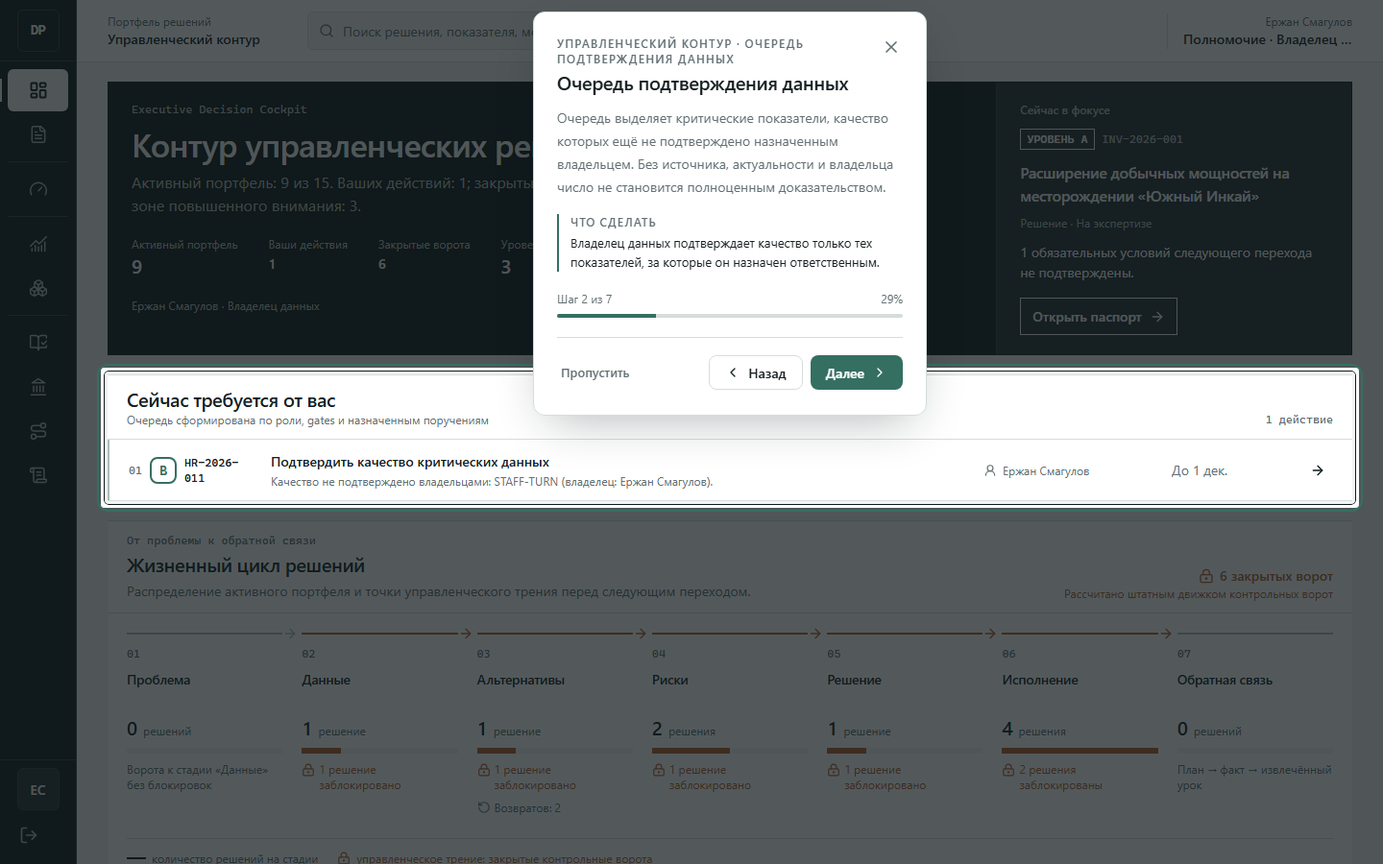
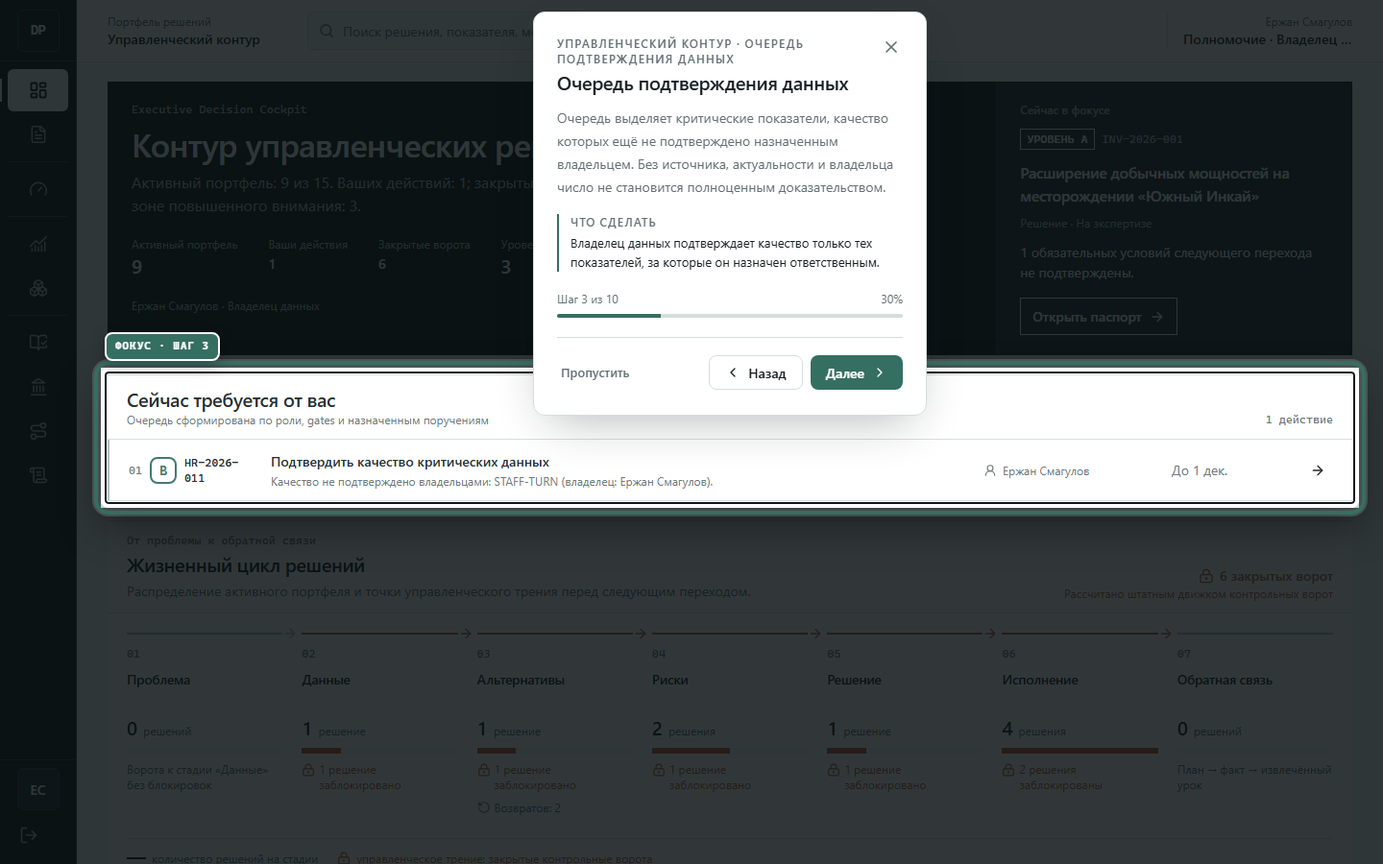
onboarding: verify stronger focus and role guidance

diff --git a/tests/onboarding-content.test.ts b/tests/onboarding-content.test.ts
@@ -2,6 +2,7 @@ import { describe, expect, it } from "vitest";
 import { ROLES } from "@/lib/domain";
 import { TOUR_REGISTRY } from "@/lib/onboarding/registry";
 import { ONBOARDING_ROUTES } from "@/lib/onboarding/routes";
+import { ONBOARDING_ROLE_PROFILES } from "@/lib/onboarding/roles";
 
 const VALID_MODES = new Set(["PAGE", "ROLE", "THESIS"]);
 const VALID_PLACEMENTS = new Set(["top", "right", "bottom", "left", "center"]);
@@ -92,5 +93,24 @@ describe("onboarding content registry", () => {
     expect(dataOwner?.steps.find((step) => step.id.endsWith(":confirm-quality"))?.target).toBe(
       '[data-tour="decision-indicator-quality-control"]'
     );
+  });
+
+  it("keeps every working page substantial and every dashboard role-specific", () => {
+    const pageTours = TOUR_REGISTRY.filter((tour) => tour.mode === "PAGE");
+    expect(pageTours).toHaveLength(28);
+    expect(pageTours.every((tour) => tour.version >= 2)).toBe(true);
+    expect(pageTours.every((tour) => tour.steps.length >= 4)).toBe(true);
+
+    const dashboardTours = pageTours.filter((tour) => tour.routeRef.routeId === "dashboard");
+    expect(dashboardTours).toHaveLength(ROLES.length);
+    expect(dashboardTours.every((tour) => tour.steps.length >= 10)).toBe(true);
+
+    for (const role of ROLES) {
+      const profile = ONBOARDING_ROLE_PROFILES[role];
+      expect(profile.label.trim().length, role).toBeGreaterThan(4);
+      expect(profile.purpose.trim().length, role).toBeGreaterThan(40);
+      expect(profile.responsibilities, role).toHaveLength(3);
+      expect(profile.responsibilities.every((item) => item.trim().length > 25), role).toBe(true);
+    }
   });
 });

diff --git a/components/onboarding/tour-surface.tsx b/components/onboarding/tour-surface.tsx
@@ -336,6 +336,7 @@ export function TourSurface({
         style={{
           top: position?.top ?? "50%",
           left: position?.left ?? "50%",
+          maxHeight: "calc(100vh - 24px)",
           opacity: position ? 1 : 0,
           transform: position ? undefined : "translate(-50%, -50%)",
         }}

diff --git a/ONBOARDING-COVERAGE.md b/ONBOARDING-COVERAGE.md
@@ -39,10 +39,10 @@ Symbols in permission tables: `✓` allowed; `—` denied.
 | Domain roles | 7 |
 | Role × accessible-page obligations | 94 |
 | Structurally covered obligations | 94/94 PASS |
-| PAGE definitions / steps | 28 / 144 |
+| PAGE definitions / steps | 28 / 193 |
 | ROLE definitions / steps | 7 / 58 |
 | THESIS definitions / steps | 2 / 30 |
-| All registered tours / steps | 37 / 232 |
+| All registered tours / steps | 37 / 281 |
 | Permission actions in `PERMISSIONS` | 23 |
 | Server mutation entry points | 26 (25 currently exposed in UI, 1 server-only) |
 | Passport top-level tabs | 7 |
@@ -142,22 +142,22 @@ This is the post-implementation structural matrix. Counts are read from the curr
 | Route pattern | Exact PAGE tour id(s) | Actual steps | Registry role scope |
 |---|---|---:|---|
 | `/login` | `page-login` | 5 | Shared GUEST introduction |
-| `/dashboard` | `page-dashboard-initiator`<br>`page-dashboard-data-owner`<br>`page-dashboard-risk-officer`<br>`page-dashboard-analyst`<br>`page-dashboard-secretary`<br>`page-dashboard-board-member`<br>`page-dashboard-admin` | 7 each; 49 total | One role-specific definition for each of 7 roles |
-| `/decisions` | `page-decisions` | 5 | All authenticated roles |
+| `/dashboard` | `page-dashboard-initiator`<br>`page-dashboard-data-owner`<br>`page-dashboard-risk-officer`<br>`page-dashboard-analyst`<br>`page-dashboard-secretary`<br>`page-dashboard-board-member`<br>`page-dashboard-admin` | 10 each; 70 total | One role-specific definition for each of 7 roles; navigation, search and training controls included |
+| `/decisions` | `page-decisions` | 8 | All authenticated roles; create step is filtered to INITIATOR and ADMIN |
 | `/decisions/new` | `page-decision-new` | 4 | INITIATOR, ADMIN |
-| `/decisions/:id` | `page-decision-passport`<br>`page-decision-post-evaluation`<br>`page-decision-alternatives`<br>`page-decision-risks`<br>`page-decision-economics`<br>`page-decision-assignments`<br>`page-decision-ai`<br>`page-decision-audit` | 9 + 7 + 5 + 6 + 5 + 4 + 6 + 2 = 44 | Base passport plus seven query-state contexts; post-evaluation is the specific `tab=passport&block=POST_EVALUATION` context; all authenticated roles |
+| `/decisions/:id` | `page-decision-passport`<br>`page-decision-post-evaluation`<br>`page-decision-alternatives`<br>`page-decision-risks`<br>`page-decision-economics`<br>`page-decision-assignments`<br>`page-decision-ai`<br>`page-decision-audit` | 9 + 7 + 7 + 6 + 8 + 6 + 6 + 4 = 53 | Base passport plus seven query-state contexts; role-filtered action steps preserve RBAC |
 | `/indicators` | `page-indicators` | 9 | All authenticated roles |
 | `/indicators/:id` | `page-indicator-detail` | 6 | All authenticated roles |
 | `/kpi` | `page-kpi` | 4 | All authenticated roles |
-| `/models` | `page-models` | 3 | All authenticated roles |
-| `/lessons` | `page-lessons` | 3 | All authenticated roles |
-| `/boards` | `page-boards` | 2 | All authenticated roles |
-| `/roadmap` | `page-roadmap` | 2 | All authenticated roles |
-| `/audit` | `page-audit` | 3 | All authenticated roles |
-| `/admin` | `page-admin` | 3 | ADMIN |
-| `/search` | `page-search` | 2 | All authenticated roles |
+| `/models` | `page-models` | 5 | All authenticated roles |
+| `/lessons` | `page-lessons` | 5 | All authenticated roles |
+| `/boards` | `page-boards` | 5 | All authenticated roles |
+| `/roadmap` | `page-roadmap` | 4 | All authenticated roles |
+| `/audit` | `page-audit` | 4 | All authenticated roles |
+| `/admin` | `page-admin` | 7 | ADMIN |
+| `/search` | `page-search` | 4 | All authenticated roles |
 
-Unique PAGE registry total: **28 definitions / 144 steps**. `/` is not included because it is a non-visual redirect exception. The post-evaluation definition adds depth to the existing `/decisions/:id` obligation, so it does not create a new role × route cell.
+Unique PAGE registry total: **28 definitions / 193 steps**. Every authenticated PAGE tour opens with a page-specific explanation plus a role brief rendered from the current identity. `/` is not included because it is a non-visual redirect exception.
 
 ### Registered ROLE and THESIS definitions
 
@@ -183,22 +183,22 @@ Registry totals for these modes: **7 ROLE definitions / 58 steps** and **2 THESI
 |---|---|---|---|---|---:|---|
 | INITIATOR | `/` | Redirect resolver | redirect only | — | 0 | EXCEPTION |
 | INITIATOR | `/login` | Login and role selection | Yes | `page-login` | 5 | PASS |
-| INITIATOR | `/dashboard` | Executive dashboard | Yes | `page-dashboard-initiator` | 7 | PASS |
-| INITIATOR | `/decisions` | Decision registry | Yes | `page-decisions` | 5 | PASS |
+| INITIATOR | `/dashboard` | Executive dashboard | Yes | `page-dashboard-initiator` | 10 | PASS |
+| INITIATOR | `/decisions` | Decision registry | Yes | `page-decisions` | 8 | PASS |
 | INITIATOR | `/decisions/new` | New decision passport | Yes | `page-decision-new` | 4 | PASS |
-| INITIATOR | `/decisions/:id` | Decision passport + seven contextual tours | Yes | `page-decision-passport`<br>`page-decision-post-evaluation`<br>`page-decision-alternatives`<br>`page-decision-risks`<br>`page-decision-economics`<br>`page-decision-assignments`<br>`page-decision-ai`<br>`page-decision-audit` | 44 (9+7+5+6+5+4+6+2) | PASS |
+| INITIATOR | `/decisions/:id` | Decision passport + seven contextual tours | Yes | `page-decision-passport`<br>`page-decision-post-evaluation`<br>`page-decision-alternatives`<br>`page-decision-risks`<br>`page-decision-economics`<br>`page-decision-assignments`<br>`page-decision-ai`<br>`page-decision-audit` | 53 (9+7+7+6+8+6+6+4) | PASS |
 | INITIATOR | `/indicators` | Indicator catalogue | Yes | `page-indicators` | 9 | PASS |
 | INITIATOR | `/indicators/:id` | Indicator evidence card | Yes | `page-indicator-detail` | 6 | PASS |
 | INITIATOR | `/kpi` | KPI, effect and maturity | Yes | `page-kpi` | 4 | PASS |
-| INITIATOR | `/models` | Model governance registry | Yes | `page-models` | 3 | PASS |
-| INITIATOR | `/lessons` | Corporate lessons | Yes | `page-lessons` | 3 | PASS |
-| INITIATOR | `/boards` | Governance panels | Yes | `page-boards` | 2 | PASS |
-| INITIATOR | `/roadmap` | Transformation roadmap | Yes | `page-roadmap` | 2 | PASS |
-| INITIATOR | `/audit` | Audit timeline | Yes | `page-audit` | 3 | PASS |
+| INITIATOR | `/models` | Model governance registry | Yes | `page-models` | 5 | PASS |
+| INITIATOR | `/lessons` | Corporate lessons | Yes | `page-lessons` | 5 | PASS |
+| INITIATOR | `/boards` | Governance panels | Yes | `page-boards` | 5 | PASS |
+| INITIATOR | `/roadmap` | Transformation roadmap | Yes | `page-roadmap` | 4 | PASS |
+| INITIATOR | `/audit` | Audit timeline | Yes | `page-audit` | 4 | PASS |
 | INITIATOR | `/admin` | Administration | No; → `/dashboard` | — | 0 | N/A — RBAC |
-| INITIATOR | `/search` | Global search results | Yes | `page-search` | 2 | PASS |
+| INITIATOR | `/search` | Global search results | Yes | `page-search` | 4 | PASS |
 
-Accessible obligations: **14 PASS**; referenced PAGE steps eligible for this role: **99**.
+Accessible obligations: **14 PASS**; referenced PAGE steps eligible for this role: **126**.
 
 #### DATA_OWNER
 
@@ -206,22 +206,22 @@ Accessible obligations: **14 PASS**; referenced PAGE steps eligible for this rol
 |---|---|---|---|---|---:|---|
 | DATA_OWNER | `/` | Redirect resolver | redirect only | — | 0 | EXCEPTION |
 | DATA_OWNER | `/login` | Login and role selection | Yes | `page-login` | 5 | PASS |
-| DATA_OWNER | `/dashboard` | Executive dashboard | Yes | `page-dashboard-data-owner` | 7 | PASS |
-| DATA_OWNER | `/decisions` | Decision registry | Yes | `page-decisions` | 5 | PASS |
+| DATA_OWNER | `/dashboard` | Executive dashboard | Yes | `page-dashboard-data-owner` | 10 | PASS |
+| DATA_OWNER | `/decisions` | Decision registry | Yes | `page-decisions` | 7 | PASS |
 | DATA_OWNER | `/decisions/new` | New decision passport | No; → `/decisions` | — | 0 | N/A — RBAC |
-| DATA_OWNER | `/decisions/:id` | Decision passport + seven contextual tours | Yes | `page-decision-passport`<br>`page-decision-post-evaluation`<br>`page-decision-alternatives`<br>`page-decision-risks`<br>`page-decision-economics`<br>`page-decision-assignments`<br>`page-decision-ai`<br>`page-decision-audit` | 42 (9+6+5+6+5+4+5+2) | PASS |
+| DATA_OWNER | `/decisions/:id` | Decision passport + seven contextual tours | Yes | `page-decision-passport`<br>`page-decision-post-evaluation`<br>`page-decision-alternatives`<br>`page-decision-risks`<br>`page-decision-economics`<br>`page-decision-assignments`<br>`page-decision-ai`<br>`page-decision-audit` | 49 (9+6+6+6+8+5+5+4) | PASS |
 | DATA_OWNER | `/indicators` | Indicator catalogue | Yes | `page-indicators` | 9 | PASS |
 | DATA_OWNER | `/indicators/:id` | Indicator evidence card | Yes | `page-indicator-detail` | 6 | PASS |
 | DATA_OWNER | `/kpi` | KPI, effect and maturity | Yes | `page-kpi` | 4 | PASS |
-| DATA_OWNER | `/models` | Model governance registry | Yes | `page-models` | 3 | PASS |
-| DATA_OWNER | `/lessons` | Corporate lessons | Yes | `page-lessons` | 3 | PASS |
-| DATA_OWNER | `/boards` | Governance panels | Yes | `page-boards` | 2 | PASS |
-| DATA_OWNER | `/roadmap` | Transformation roadmap | Yes | `page-roadmap` | 2 | PASS |
-| DATA_OWNER | `/audit` | Audit timeline | Yes | `page-audit` | 3 | PASS |
+| DATA_OWNER | `/models` | Model governance registry | Yes | `page-models` | 5 | PASS |
+| DATA_OWNER | `/lessons` | Corporate lessons | Yes | `page-lessons` | 5 | PASS |
+| DATA_OWNER | `/boards` | Governance panels | Yes | `page-boards` | 5 | PASS |
+| DATA_OWNER | `/roadmap` | Transformation roadmap | Yes | `page-roadmap` | 4 | PASS |
+| DATA_OWNER | `/audit` | Audit timeline | Yes | `page-audit` | 4 | PASS |
 | DATA_OWNER | `/admin` | Administration | No; → `/dashboard` | — | 0 | N/A — RBAC |
-| DATA_OWNER | `/search` | Global search results | Yes | `page-search` | 2 | PASS |
+| DATA_OWNER | `/search` | Global search results | Yes | `page-search` | 4 | PASS |
 
-Accessible obligations: **13 PASS**; referenced PAGE steps eligible for this role: **93**.
+Accessible obligations: **13 PASS**; referenced PAGE steps eligible for this role: **117**.
 
 #### RISK_OFFICER
 
@@ -229,22 +229,22 @@ Accessible obligations: **13 PASS**; referenced PAGE steps eligible for this rol
 |---|---|---|---|---|---:|---|
 | RISK_OFFICER | `/` | Redirect resolver | redirect only | — | 0 | EXCEPTION |
 | RISK_OFFICER | `/login` | Login and role selection | Yes | `page-login` | 5 | PASS |
-| RISK_OFFICER | `/dashboard` | Executive dashboard | Yes | `page-dashboard-risk-officer` | 7 | PASS |
-| RISK_OFFICER | `/decisions` | Decision registry | Yes | `page-decisions` | 5 | PASS |
+| RISK_OFFICER | `/dashboard` | Executive dashboard | Yes | `page-dashboard-risk-officer` | 10 | PASS |
+| RISK_OFFICER | `/decisions` | Decision registry | Yes | `page-decisions` | 7 | PASS |
 | RISK_OFFICER | `/decisions/new` | New decision passport | No; → `/decisions` | — | 0 | N/A — RBAC |
-| RISK_OFFICER | `/decisions/:id` | Decision passport + seven contextual tours | Yes | `page-decision-passport`<br>`page-decision-post-evaluation`<br>`page-decision-alternatives`<br>`page-decision-risks`<br>`page-decision-economics`<br>`page-decision-assignments`<br>`page-decision-ai`<br>`page-decision-audit` | 42 (9+6+5+6+5+4+5+2) | PASS |
+| RISK_OFFICER | `/decisions/:id` | Decision passport + seven contextual tours | Yes | `page-decision-passport`<br>`page-decision-post-evaluation`<br>`page-decision-alternatives`<br>`page-decision-risks`<br>`page-decision-economics`<br>`page-decision-assignments`<br>`page-decision-ai`<br>`page-decision-audit` | 49 (9+6+6+6+8+5+5+4) | PASS |
 | RISK_OFFICER | `/indicators` | Indicator catalogue | Yes | `page-indicators` | 9 | PASS |
 | RISK_OFFICER | `/indicators/:id` | Indicator evidence card | Yes | `page-indicator-detail` | 6 | PASS |
 | RISK_OFFICER | `/kpi` | KPI, effect and maturity | Yes | `page-kpi` | 4 | PASS |
-| RISK_OFFICER | `/models` | Model governance registry | Yes | `page-models` | 3 | PASS |
-| RISK_OFFICER | `/lessons` | Corporate lessons | Yes | `page-lessons` | 3 | PASS |
-| RISK_OFFICER | `/boards` | Governance panels | Yes | `page-boards` | 2 | PASS |
-| RISK_OFFICER | `/roadmap` | Transformation roadmap | Yes | `page-roadmap` | 2 | PASS |
-| RISK_OFFICER | `/audit` | Audit timeline | Yes | `page-audit` | 3 | PASS |
+| RISK_OFFICER | `/models` | Model governance registry | Yes | `page-models` | 5 | PASS |
+| RISK_OFFICER | `/lessons` | Corporate lessons | Yes | `page-lessons` | 5 | PASS |
+| RISK_OFFICER | `/boards` | Governance panels | Yes | `page-boards` | 5 | PASS |
+| RISK_OFFICER | `/roadmap` | Transformation roadmap | Yes | `page-roadmap` | 4 | PASS |
+| RISK_OFFICER | `/audit` | Audit timeline | Yes | `page-audit` | 4 | PASS |
 | RISK_OFFICER | `/admin` | Administration | No; → `/dashboard` | — | 0 | N/A — RBAC |
-| RISK_OFFICER | `/search` | Global search results | Yes | `page-search` | 2 | PASS |
+| RISK_OFFICER | `/search` | Global search results | Yes | `page-search` | 4 | PASS |
 
-Accessible obligations: **13 PASS**; referenced PAGE steps eligible for this role: **93**.
+Accessible obligations: **13 PASS**; referenced PAGE steps eligible for this role: **117**.
 
 #### ANALYST
 
@@ -252,22 +252,22 @@ Accessible obligations: **13 PASS**; referenced PAGE steps eligible for this rol
 |---|---|---|---|---|---:|---|
 | ANALYST | `/` | Redirect resolver | redirect only | — | 0 | EXCEPTION |
 | ANALYST | `/login` | Login and role selection | Yes | `page-login` | 5 | PASS |
-| ANALYST | `/dashboard` | Executive dashboard | Yes | `page-dashboard-analyst` | 7 | PASS |
-| ANALYST | `/decisions` | Decision registry | Yes | `page-decisions` | 5 | PASS |
+| ANALYST | `/dashboard` | Executive dashboard | Yes | `page-dashboard-analyst` | 10 | PASS |
+| ANALYST | `/decisions` | Decision registry | Yes | `page-decisions` | 7 | PASS |
 | ANALYST | `/decisions/new` | New decision passport | No; → `/decisions` | — | 0 | N/A — RBAC |
-| ANALYST | `/decisions/:id` | Decision passport + seven contextual tours | Yes | `page-decision-passport`<br>`page-decision-post-evaluation`<br>`page-decision-alternatives`<br>`page-decision-risks`<br>`page-decision-economics`<br>`page-decision-assignments`<br>`page-decision-ai`<br>`page-decision-audit` | 43 (9+6+5+6+5+4+6+2) | PASS |
+| ANALYST | `/decisions/:id` | Decision passport + seven contextual tours | Yes | `page-decision-passport`<br>`page-decision-post-evaluation`<br>`page-decision-alternatives`<br>`page-decision-risks`<br>`page-decision-economics`<br>`page-decision-assignments`<br>`page-decision-ai`<br>`page-decision-audit` | 51 (9+6+7+6+8+5+6+4) | PASS |
 | ANALYST | `/indicators` | Indicator catalogue | Yes | `page-indicators` | 9 | PASS |
 | ANALYST | `/indicators/:id` | Indicator evidence card | Yes | `page-indicator-detail` | 6 | PASS |
 | ANALYST | `/kpi` | KPI, effect and maturity | Yes | `page-kpi` | 4 | PASS |
-| ANALYST | `/models` | Model governance registry | Yes | `page-models` | 3 | PASS |
-| ANALYST | `/lessons` | Corporate lessons | Yes | `page-lessons` | 3 | PASS |
-| ANALYST | `/boards` | Governance panels | Yes | `page-boards` | 2 | PASS |
-| ANALYST | `/roadmap` | Transformation roadmap | Yes | `page-roadmap` | 2 | PASS |
-| ANALYST | `/audit` | Audit timeline | Yes | `page-audit` | 3 | PASS |
+| ANALYST | `/models` | Model governance registry | Yes | `page-models` | 5 | PASS |
+| ANALYST | `/lessons` | Corporate lessons | Yes | `page-lessons` | 5 | PASS |
+| ANALYST | `/boards` | Governance panels | Yes | `page-boards` | 5 | PASS |
+| ANALYST | `/roadmap` | Transformation roadmap | Yes | `page-roadmap` | 4 | PASS |
+| ANALYST | `/audit` | Audit timeline | Yes | `page-audit` | 4 | PASS |
 | ANALYST | `/admin` | Administration | No; → `/dashboard` | — | 0 | N/A — RBAC |
-| ANALYST | `/search` | Global search results | Yes | `page-search` | 2 | PASS |
+| ANALYST | `/search` | Global search results | Yes | `page-search` | 4 | PASS |
 
-Accessible obligations: **13 PASS**; referenced PAGE steps eligible for this role: **94**.
+Accessible obligations: **13 PASS**; referenced PAGE steps eligible for this role: **119**.
 
 #### SECRETARY
 
@@ -275,22 +275,22 @@ Accessible obligations: **13 PASS**; referenced PAGE steps eligible for this rol
 |---|---|---|---|---|---:|---|
 | SECRETARY | `/` | Redirect resolver | redirect only | — | 0 | EXCEPTION |
 | SECRETARY | `/login` | Login and role selection | Yes | `page-login` | 5 | PASS |
-| SECRETARY | `/dashboard` | Executive dashboard | Yes | `page-dashboard-secretary` | 7 | PASS |
-| SECRETARY | `/decisions` | Decision registry | Yes | `page-decisions` | 5 | PASS |
+| SECRETARY | `/dashboard` | Executive dashboard | Yes | `page-dashboard-secretary` | 10 | PASS |
+| SECRETARY | `/decisions` | Decision registry | Yes | `page-decisions` | 7 | PASS |
 | SECRETARY | `/decisions/new` | New decision passport | No; → `/decisions` | — | 0 | N/A — RBAC |
-| SECRETARY | `/decisions/:id` | Decision passport + seven contextual tours | Yes | `page-decision-passport`<br>`page-decision-post-evaluation`<br>`page-decision-alternatives`<br>`page-decision-risks`<br>`page-decision-economics`<br>`page-decision-assignments`<br>`page-decision-ai`<br>`page-decision-audit` | 43 (9+7+5+6+5+4+5+2) | PASS |
+| SECRETARY | `/decisions/:id` | Decision passport + seven contextual tours | Yes | `page-decision-passport`<br>`page-decision-post-evaluation`<br>`page-decision-alternatives`<br>`page-decision-risks`<br>`page-decision-economics`<br>`page-decision-assignments`<br>`page-decision-ai`<br>`page-decision-audit` | 51 (9+7+6+6+8+6+5+4) | PASS |
 | SECRETARY | `/indicators` | Indicator catalogue | Yes | `page-indicators` | 9 | PASS |
 | SECRETARY | `/indicators/:id` | Indicator evidence card | Yes | `page-indicator-detail` | 6 | PASS |
 | SECRETARY | `/kpi` | KPI, effect and maturity | Yes | `page-kpi` | 4 | PASS |
-| SECRETARY | `/models` | Model governance registry | Yes | `page-models` | 3 | PASS |
-| SECRETARY | `/lessons` | Corporate lessons | Yes | `page-lessons` | 3 | PASS |
-| SECRETARY | `/boards` | Governance panels | Yes | `page-boards` | 2 | PASS |
-| SECRETARY | `/roadmap` | Transformation roadmap | Yes | `page-roadmap` | 2 | PASS |
-| SECRETARY | `/audit` | Audit timeline | Yes | `page-audit` | 3 | PASS |
+| SECRETARY | `/models` | Model governance registry | Yes | `page-models` | 5 | PASS |
+| SECRETARY | `/lessons` | Corporate lessons | Yes | `page-lessons` | 5 | PASS |
+| SECRETARY | `/boards` | Governance panels | Yes | `page-boards` | 5 | PASS |
+| SECRETARY | `/roadmap` | Transformation roadmap | Yes | `page-roadmap` | 4 | PASS |
+| SECRETARY | `/audit` | Audit timeline | Yes | `page-audit` | 4 | PASS |
 | SECRETARY | `/admin` | Administration | No; → `/dashboard` | — | 0 | N/A — RBAC |
-| SECRETARY | `/search` | Global search results | Yes | `page-search` | 2 | PASS |
+| SECRETARY | `/search` | Global search results | Yes | `page-search` | 4 | PASS |
 
-Accessible obligations: **13 PASS**; referenced PAGE steps eligible for this role: **94**.
+Accessible obligations: **13 PASS**; referenced PAGE steps eligible for this role: **119**.
 
 #### BOARD_MEMBER
 
@@ -298,22 +298,22 @@ Accessible obligations: **13 PASS**; referenced PAGE steps eligible for this rol
 |---|---|---|---|---|---:|---|
 | BOARD_MEMBER | `/` | Redirect resolver | redirect only | — | 0 | EXCEPTION |
 | BOARD_MEMBER | `/login` | Login and role selection | Yes | `page-login` | 5 | PASS |
-| BOARD_MEMBER | `/dashboard` | Executive dashboard | Yes | `page-dashboard-board-member` | 7 | PASS |
-| BOARD_MEMBER | `/decisions` | Decision registry | Yes | `page-decisions` | 5 | PASS |
+| BOARD_MEMBER | `/dashboard` | Executive dashboard | Yes | `page-dashboard-board-member` | 10 | PASS |
+| BOARD_MEMBER | `/decisions` | Decision registry | Yes | `page-decisions` | 7 | PASS |
 | BOARD_MEMBER | `/decisions/new` | New decision passport | No; → `/decisions` | — | 0 | N/A — RBAC |
-| BOARD_MEMBER | `/decisions/:id` | Decision passport + seven contextual tours | Yes | `page-decision-passport`<br>`page-decision-post-evaluation`<br>`page-decision-alternatives`<br>`page-decision-risks`<br>`page-decision-economics`<br>`page-decision-assignments`<br>`page-decision-ai`<br>`page-decision-audit` | 43 (9+6+5+6+5+4+6+2) | PASS |
+| BOARD_MEMBER | `/decisions/:id` | Decision passport + seven contextual tours | Yes | `page-decision-passport`<br>`page-decision-post-evaluation`<br>`page-decision-alternatives`<br>`page-decision-risks`<br>`page-decision-economics`<br>`page-decision-assignments`<br>`page-decision-ai`<br>`page-decision-audit` | 50 (9+6+6+6+8+5+6+4) | PASS |
 | BOARD_MEMBER | `/indicators` | Indicator catalogue | Yes | `page-indicators` | 9 | PASS |
 | BOARD_MEMBER | `/indicators/:id` | Indicator evidence card | Yes | `page-indicator-detail` | 6 | PASS |
 | BOARD_MEMBER | `/kpi` | KPI, effect and maturity | Yes | `page-kpi` | 4 | PASS |
-| BOARD_MEMBER | `/models` | Model governance registry | Yes | `page-models` | 3 | PASS |
-| BOARD_MEMBER | `/lessons` | Corporate lessons | Yes | `page-lessons` | 3 | PASS |
-| BOARD_MEMBER | `/boards` | Governance panels | Yes | `page-boards` | 2 | PASS |
-| BOARD_MEMBER | `/roadmap` | Transformation roadmap | Yes | `page-roadmap` | 2 | PASS |
-| BOARD_MEMBER | `/audit` | Audit timeline | Yes | `page-audit` | 3 | PASS |
+| BOARD_MEMBER | `/models` | Model governance registry | Yes | `page-models` | 5 | PASS |
+| BOARD_MEMBER | `/lessons` | Corporate lessons | Yes | `page-lessons` | 5 | PASS |
+| BOARD_MEMBER | `/boards` | Governance panels | Yes | `page-boards` | 5 | PASS |
+| BOARD_MEMBER | `/roadmap` | Transformation roadmap | Yes | `page-roadmap` | 4 | PASS |
+| BOARD_MEMBER | `/audit` | Audit timeline | Yes | `page-audit` | 4 | PASS |
 | BOARD_MEMBER | `/admin` | Administration | No; → `/dashboard` | — | 0 | N/A — RBAC |
-| BOARD_MEMBER | `/search` | Global search results | Yes | `page-search` | 2 | PASS |
+| BOARD_MEMBER | `/search` | Global search results | Yes | `page-search` | 4 | PASS |
 
-Accessible obligations: **13 PASS**; referenced PAGE steps eligible for this role: **94**.
+Accessible obligations: **13 PASS**; referenced PAGE steps eligible for this role: **118**.
 
 #### ADMIN
 
@@ -321,22 +321,22 @@ Accessible obligations: **13 PASS**; referenced PAGE steps eligible for this rol
 |---|---|---|---|---|---:|---|
 | ADMIN | `/` | Redirect resolver | redirect only | — | 0 | EXCEPTION |
 | ADMIN | `/login` | Login and role selection | Yes | `page-login` | 5 | PASS |
-| ADMIN | `/dashboard` | Executive dashboard | Yes | `page-dashboard-admin` | 7 | PASS |
-| ADMIN | `/decisions` | Decision registry | Yes | `page-decisions` | 5 | PASS |
+| ADMIN | `/dashboard` | Executive dashboard | Yes | `page-dashboard-admin` | 10 | PASS |
+| ADMIN | `/decisions` | Decision registry | Yes | `page-decisions` | 8 | PASS |
 | ADMIN | `/decisions/new` | New decision passport | Yes | `page-decision-new` | 4 | PASS |
-| ADMIN | `/decisions/:id` | Decision passport + seven contextual tours | Yes | `page-decision-passport`<br>`page-decision-post-evaluation`<br>`page-decision-alternatives`<br>`page-decision-risks`<br>`page-decision-economics`<br>`page-decision-assignments`<br>`page-decision-ai`<br>`page-decision-audit` | 44 (9+7+5+6+5+4+6+2) | PASS |
+| ADMIN | `/decisions/:id` | Decision passport + seven contextual tours | Yes | `page-decision-passport`<br>`page-decision-post-evaluation`<br>`page-decision-alternatives`<br>`page-decision-risks`<br>`page-decision-economics`<br>`page-decision-assignments`<br>`page-decision-ai`<br>`page-decision-audit` | 53 (9+7+7+6+8+6+6+4) | PASS |
 | ADMIN | `/indicators` | Indicator catalogue | Yes | `page-indicators` | 9 | PASS |
 | ADMIN | `/indicators/:id` | Indicator evidence card | Yes | `page-indicator-detail` | 6 | PASS |
 | ADMIN | `/kpi` | KPI, effect and maturity | Yes | `page-kpi` | 4 | PASS |
-| ADMIN | `/models` | Model governance registry | Yes | `page-models` | 3 | PASS |
-| ADMIN | `/lessons` | Corporate lessons | Yes | `page-lessons` | 3 | PASS |
-| ADMIN | `/boards` | Governance panels | Yes | `page-boards` | 2 | PASS |
-| ADMIN | `/roadmap` | Transformation roadmap | Yes | `page-roadmap` | 2 | PASS |
-| ADMIN | `/audit` | Audit timeline | Yes | `page-audit` | 3 | PASS |
-| ADMIN | `/admin` | Administration | Yes | `page-admin` | 3 | PASS |
-| ADMIN | `/search` | Global search results | Yes | `page-search` | 2 | PASS |
+| ADMIN | `/models` | Model governance registry | Yes | `page-models` | 5 | PASS |
+| ADMIN | `/lessons` | Corporate lessons | Yes | `page-lessons` | 5 | PASS |
+| ADMIN | `/boards` | Governance panels | Yes | `page-boards` | 5 | PASS |
+| ADMIN | `/roadmap` | Transformation roadmap | Yes | `page-roadmap` | 4 | PASS |
+| ADMIN | `/audit` | Audit timeline | Yes | `page-audit` | 4 | PASS |
+| ADMIN | `/admin` | Administration | Yes | `page-admin` | 7 | PASS |
+| ADMIN | `/search` | Global search results | Yes | `page-search` | 4 | PASS |
 
-Accessible obligations: **15 PASS**; referenced PAGE steps eligible for this role: **102**.
+Accessible obligations: **15 PASS**; referenced PAGE steps eligible for this role: **133**.
 
 Matrix total: **94 PASS**, **11 N/A — RBAC**, and **7 EXCEPTION** cells across 7 roles × 16 route patterns. The 94 PASS cells are obligations, not unique tour instances; shared definitions are intentionally reused. Referenced step totals apply step-level eligibility: the post-evaluation close step is available only to INITIATOR, SECRETARY and ADMIN, while the AI human-verdict step is available only to INITIATOR, ANALYST, BOARD_MEMBER and ADMIN.
 
@@ -345,7 +345,7 @@ Matrix total: **94 PASS**, **11 N/A — RBAC**, and **7 EXCEPTION** cells across
 | Route | Screen and important states | Inputs/actions visible on the page | Tour content obligation |
 |---|---|---|---|
 | `/login` | Welcome thesis, seven-stage lifecycle, Human-in-the-loop statement, four role groups, eight quick-login identities | Quick role login buttons; collapsible manual email/password form | Explain the product before highlighting a person; lifecycle; human authority; role groups; role selection |
-| `/dashboard` | Executive situation, active/action/blocked/A-attention signals, level-A focus, personal responsibility queue, seven-stage flow, process health, maturity, significant events, public context disclosure | Links to passport, audit and KPI; no business mutation | Seven-step role-aware tour; the action queue copy must change by role and must distinguish evidence gates from decisions |
+| `/dashboard` | Executive situation, active/action/blocked/A-attention signals, level-A focus, personal responsibility queue, seven-stage flow, process health, maturity, significant events, public context disclosure | Links to passport, audit and KPI; no business mutation | Ten-step role-aware tour including navigation, global search and training controls; action-queue copy changes by role |
 | `/decisions` | Portfolio signals, registry filters, table with code, A/B/C, stage, gate, responsibility, body, deadline and status | Search and filters `q`, `criticality`, `stage`, `status`; advanced `type`, `body`, `overdue`; reset; create CTA for INITIATOR/ADMIN | Explain “stuck” as missing evidence, not UI failure; cover every operational column and filters |
 | `/decisions/new` | New passport form and lifecycle/criticality guidance | Title, goal, type, criticality, decision body, optional deadline; create | Explain why the unit is a decision, how A/B/C changes required evidence, and why the body is selected before creation |
 | `/decisions/:id` | Decision Control Header, readiness, stage rail, gate checklist, evidence index, seven tabs and audit | Role/state-dependent mutations listed below | Central walkthrough; more than ten steps permitted; role-aware optional targets must skip safely |
@@ -608,11 +608,11 @@ The structural matrix has one route-level PAGE exception (`/`), two non-page API
 This document reconciles the current route inventory, route role scopes, role profiles and central registry. The resulting source-level checks are:
 
 1. All 15 user-facing page patterns have at least one PAGE definition; `/` remains the sole non-visual page exception.
-2. Dashboard resolution has one distinct seven-step PAGE definition for each of the seven authenticated roles.
+2. Dashboard resolution has one distinct ten-step PAGE definition for each of the seven authenticated roles.
 3. `/decisions/new` is scoped to INITIATOR and ADMIN; `/admin` is scoped to ADMIN. The other roles retain `N/A — RBAC` rather than false PASS rows.
 4. The shared login definition is `page-login` with exactly five steps.
-5. The decision-passport route has one nine-step base definition and seven contextual definitions totalling 35 more registered steps: 44 across the complete route suite. Per-role runnable totals are 42–44 because the post-evaluation close and AI human-verdict steps have narrower role eligibility.
-6. Registry arithmetic is internally consistent: 28 PAGE / 144 steps, 7 ROLE / 58 steps and 2 THESIS / 30 steps, for 37 tours / 232 steps overall.
+5. The decision-passport route has one nine-step base definition and seven contextual definitions totalling 44 more registered steps: 53 across the complete route suite. Per-role runnable totals are 49–53 because action steps preserve RBAC.
+6. Registry arithmetic is internally consistent: 28 PAGE / 193 steps, 7 ROLE / 58 steps and 2 THESIS / 30 steps, for 37 tours / 281 steps overall.
 7. The expanded role matrix is internally consistent: 94 PASS + 11 N/A — RBAC + 7 EXCEPTION = 112 cells (7 roles × 16 route patterns).
 
 The PASS labels above are intentionally limited to this structural reconciliation. This document does not claim production-build, visual-regression, keyboard/focus or manual-browser results; those require their own execution evidence.
@@ -634,9 +634,9 @@ The application exposes one shared evidence environment to seven roles, with pag
 
 - **15/15** user-facing page patterns have PAGE coverage.
 - **94/94** accessible role-route obligations are marked PASS.
-- **28 PAGE tours / 144 PAGE steps** cover the route layer, including the shared five-step login, seven role-aware dashboard variants and dedicated post-evaluation context.
+- **28 PAGE tours / 193 PAGE steps** cover the route layer, including the shared five-step login, seven ten-step role-aware dashboard variants and dedicated post-evaluation context.
 - **7 ROLE tours / 58 ROLE steps** explain role-specific responsibilities.
 - **2 THESIS tours / 30 THESIS steps** provide the jury methodology walkthrough and a separate evidence-nature explanation.
-- **37 tours / 232 steps** are registered overall.
+- **37 tours / 281 steps** are registered overall.
 - **1** non-visual page pattern (`/`) and **2** API patterns remain documented exceptions.
 - **11** matrix cells remain `N/A — RBAC`; no accessible working page is granted a `Tour: NO` exception.

diff --git a/ONBOARDING-VISUAL-QA.md b/ONBOARDING-VISUAL-QA.md
@@ -56,13 +56,18 @@
 ## Фактическая приёмка
 
 - Дата: 2 сентября 2026 года.
-- Spotlight acceptance обновлён 3 сентября 2026 года: фон `rgba(16, 25, 28, 0.72)`,
-  белая рамка 3 px и внешний акцентный контур 2 px; fallback выбирает позицию coach card
-  с минимальным перекрытием target.
+- Spotlight acceptance обновлён 3 сентября 2026 года: фон `rgba(10, 17, 19, 0.84)`,
+  белая рамка 4 px, внешний акцентный контур 4 px, светлая внутренняя подложка и постоянный
+  бейдж `Фокус · шаг N`; fallback выбирает позицию coach card с минимальным перекрытием target.
+- Движок выбирает первый видимый DOM-target среди совпадений, ждёт асинхронную цель до 2,4 с
+  и не скрывает инструкцию во время route transition или поиска элемента.
+- Первый шаг каждой рабочей страницы содержит роль, назначение страницы и три предметные
+  обязанности текущего пользователя; dashboard каждой из семи ролей расширен до 10 шагов.
 - Golden viewport: 1440×900; просмотрены все 18 PNG после финальной регенерации.
 - Отдельно исправлен и повторно принят кадр 14: target человеческого вердикта полностью виден,
   coach card его не перекрывает, metadata-заголовок не сталкивается с соседними колонками.
-- Browser acceptance: Playwright Chromium, 25/25 сценариев PASS; golden generation — 1/1 PASS.
+- Browser acceptance дополнен полным Chromium-прогоном onboarding: 14/14 PASS;
+  golden generation после изменений — 1/1 PASS.
 - Production acceptance: `next build` PASS, включая встроенные проверки типов и lint.
 - Responsive matrix: 1920×1080, 1600×900, 1440×900, 1366×768, 1280×800,
   1024×768 и 768×1024 — 7/7 PASS без page-level overflow.
